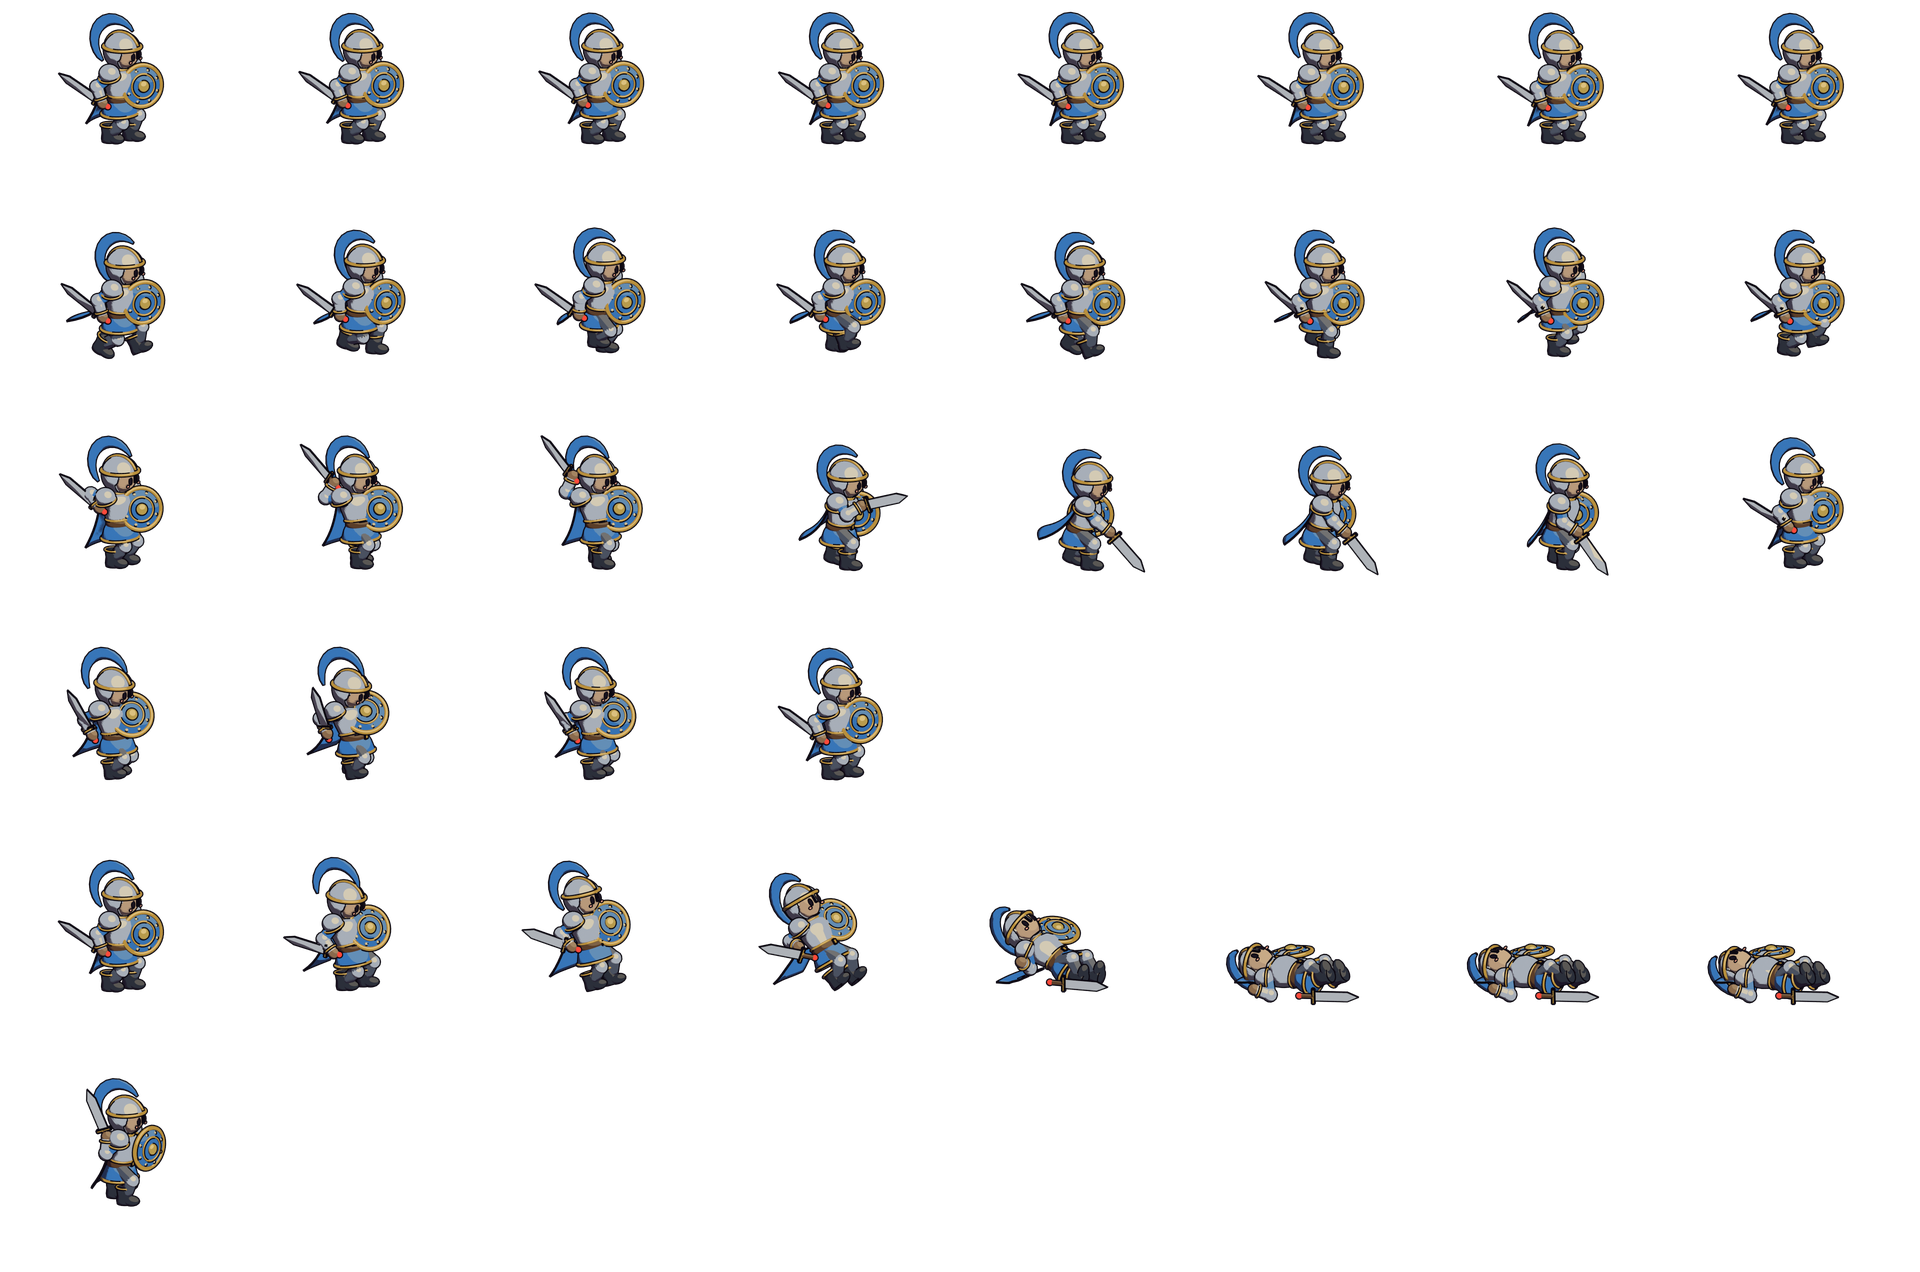
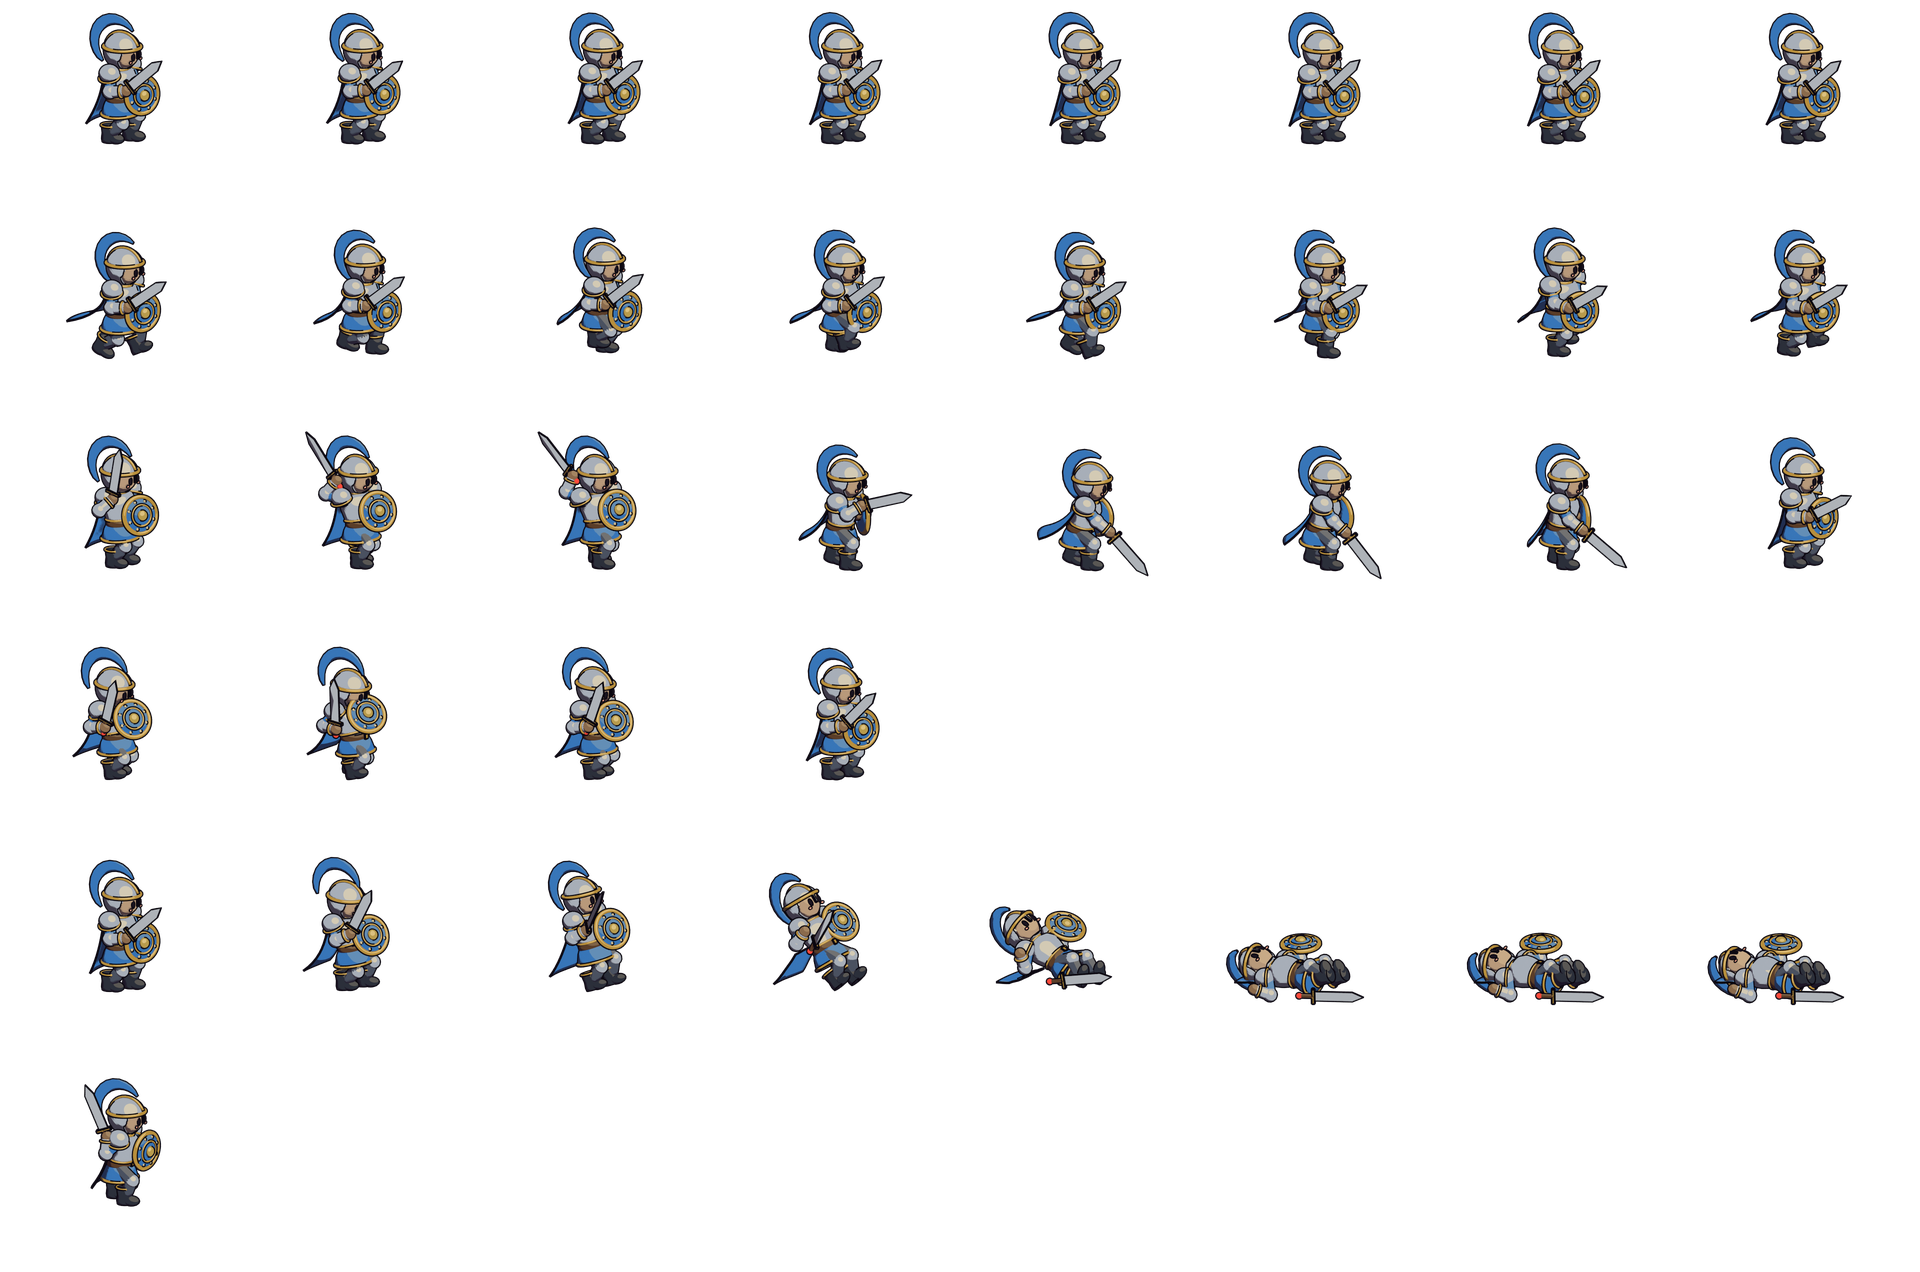
骑士 Blender 模型：剑朝前拿，盾离开身体不穿模
Claude-Session: https://claude.ai/code/session_01Uc92THDE5Qz8tvRoeGncLy

diff --git a/tools/blender/knight.py b/tools/blender/knight.py
@@ -372,8 +372,8 @@ UPPER_ARM, FOREARM = 7.2, 6.8
 THIGH, SHIN = 8.6, 8.4
 HEAD_UP = 20.6          # 头的中心在胯上面多少
 HEAD_R = 7.4
-SWORD_LENGTH = 20.0
-SHIELD_R = 8.4
+SWORD_LENGTH = 22.0
+SHIELD_R = 7.4
 CAPE_COLS, CAPE_ROWS = 8, 9
 
 
@@ -454,16 +454,16 @@ def build_knight(look):
     add_object('pommel', ellipsoid(1.35, 1.35, 1.35, 8, 14), 'sword', look['gem'], 'glow', location=(0, 0, -2.6))
 
     # ---- 盾：关节在盾心，盾面朝 +X
-    dome = [(0.0, 2.0), (2.6, 1.85), (5.4, 1.3), (7.4, 0.6), (SHIELD_R, 0.0), (SHIELD_R, -0.9), (0.0, -0.9)]
+    dome = [(0.0, 1.9), (SHIELD_R * 0.3, 1.75), (SHIELD_R * 0.64, 1.25), (SHIELD_R * 0.88, 0.6), (SHIELD_R, 0.0), (SHIELD_R, -0.9), (0.0, -0.9)]
     face_rotation = (0, math.pi / 2, 0)
     add_object('shield_face', lathe(dome, 36), 'shield', shade(player, -0.3), rotation=face_rotation)
     add_object('shield_rim', tube(ring_points(SHIELD_R, SHIELD_R, 0.0, 40), 1.0, closed=True), 'shield', trim, 'metal', rotation=face_rotation)
-    add_object('shield_ring', tube(ring_points(4.9, 4.9, 1.45, 32), 0.5, closed=True), 'shield', trim, 'metal', rotation=face_rotation)
-    add_object('shield_boss', ellipsoid(2.5, 2.5, 1.5, 8, 20), 'shield', '#ffd76a', 'metal', rotation=face_rotation, location=(1.9, 0, 0))
+    add_object('shield_ring', tube(ring_points(SHIELD_R * 0.58, SHIELD_R * 0.58, 1.4, 32), 0.5, closed=True), 'shield', trim, 'metal', rotation=face_rotation)
+    add_object('shield_boss', ellipsoid(2.3, 2.3, 1.5, 8, 20), 'shield', '#ffd76a', 'metal', rotation=face_rotation, location=(1.9, 0, 0))
     for i in range(8):                      # 盾沿的一圈铆钉
         angle = i / 8 * math.tau + math.pi / 8
         add_object(f'shield_stud_{i}', ellipsoid(0.75, 0.75, 0.6, 6, 10), 'shield', '#fff1c2', 'metal', rotation=face_rotation,
-                   location=(0.75, math.cos(angle) * 6.6, math.sin(angle) * 6.6))
+                   location=(0.75, math.cos(angle) * SHIELD_R * 0.79, math.sin(angle) * SHIELD_R * 0.79))
 
     # ---- 披风：每帧按姿势重新算顶点（见 update_cape）
     cape_mesh = bpy.data.meshes.new('cape')
@@ -517,6 +517,17 @@ def V(x, y, z):
     return Vector((x, y, z))
 
 
+def shield_at(direction, distance, shift, height):
+    """按盾面朝向算盾心的位置：盾面离身体中轴 distance 远（要大于胸甲的半径，盾才不会插进身体），
+    再沿盾面横向挪 shift（正数往远侧），height 是相对两肩的高度。返回 (盾心, 朝向)。"""
+    flat = Vector((direction.x, direction.y, 0)).normalized()
+    across = Vector((-flat.y, flat.x, 0))
+    center = flat * distance + across * shift
+    return Vector((center.x, center.y, height)), direction
+
+
+SHIELD_REST = shield_at(Vector((0.88, -0.45, 0.12)), 9.6, 4.2, -8.4)
+
 # 一帧的姿势参数。手的位置用“躯干坐标”：原点在两肩中点，X 朝前、Y 朝左（远侧）、Z 朝上。
 # 右手（近侧，离镜头近）持剑，左手（远侧）持盾；镜头从侧前方看，盾举在身前也看得见。
 REST = {
@@ -526,10 +537,10 @@ REST = {
     'lean': 0.0,                    # 上身前倾（弧度）
     'twist': 0.0,                   # 上身绕竖轴转（正数：左肩往前）
     'head': (0.0, 0.0),             # 头相对上身：(低头, 往镜头转)
-    'sword_hand': V(-2.0, -10.6, -11.0),
-    'sword_dir': V(-0.8, -0.16, 0.46),   # 剑尖指向（上身坐标）
-    'shield_pos': V(8.2, 3.2, -5.8),     # 盾心
-    'shield_dir': V(0.8, -0.58, 0.12),   # 盾面朝向
+    'sword_hand': V(8.6, -10.6, -4.6),      # 持剑的手伸在身前，剑尖指向前上方，剑身从盾的上沿探出去
+    'sword_dir': V(0.74, -0.05, 0.67),   # 剑尖指向（上身坐标）
+    'shield_pos': SHIELD_REST[0],        # 盾心
+    'shield_dir': SHIELD_REST[1],        # 盾面朝向
     'foot_L': (V(2.8, HIP_SIDE + 0.4, 0), 0.0),    # (脚底位置, 脚尖上翘的角度)；远侧脚在前，两条腿在画面上才分得开
     'foot_R': (V(-2.6, -HIP_SIDE - 0.4, 0), 0.0),
     'cape': (0.0, 0.0),             # (往后扬起的程度 0..1, 摆动的相位)
@@ -614,7 +625,7 @@ ATTACK_KEYS = [
     (0.3, 'out', pose(
         lean=-0.2, twist=-0.3, drop=0.8, head=(0.08, 0.0),
         sword_hand=V(-3.0, -8.4, 9.5), sword_dir=V(-0.62, -0.1, 0.78),
-        shield_pos=V(7.4, 4.6, -6.2),
+        shield_pos=shield_at(V(0.8, -0.2, 0.1), 9.4, 3.6, -6.0)[0], shield_dir=V(0.8, -0.2, 0.1),
         foot_L=(V(-3.4, HIP_SIDE, 0), 0.0), foot_R=(V(2.0, -HIP_SIDE, 0), 0.0),
         cape=(0.15, 1.0), plume=-0.12,
     )),
@@ -622,14 +633,14 @@ ATTACK_KEYS = [
     (0.42, 'in', pose(
         lean=0.12, twist=0.1, drop=1.4, head=(-0.05, 0.0),
         sword_hand=V(9.0, -8.2, 5.0), sword_dir=V(0.72, -0.05, 0.69),
-        shield_pos=V(4.6, 6.4, -6.8), shield_dir=V(0.5, -0.82, 0.1),
+        shield_pos=shield_at(V(0.7, 0.4, 0.1), 9.2, 2.0, -6.4)[0], shield_dir=V(0.7, 0.4, 0.1),
         foot_L=(V(-5.0, HIP_SIDE, 0), -0.25), foot_R=(V(5.2, -HIP_SIDE, 0), 0.0),
         cape=(0.5, 2.0), plume=0.3,
     )),
     (0.55, 'out', pose(
         lean=0.3, twist=0.32, drop=2.6, head=(-0.12, 0.0),
         sword_hand=V(13.2, -7.4, -6.6), sword_dir=V(0.86, -0.02, -0.5),
-        shield_pos=V(1.4, 7.6, -7.4), shield_dir=V(0.3, -0.94, 0.1),
+        shield_pos=shield_at(V(0.45, 0.88, 0.1), 9.4, 0.5, -7.0)[0], shield_dir=V(0.45, 0.88, 0.1),
         foot_L=(V(-5.6, HIP_SIDE, 0), -0.35), foot_R=(V(6.0, -HIP_SIDE, 0), 0.0),
         cape=(0.75, 3.0), plume=0.5,
     )),
@@ -637,7 +648,7 @@ ATTACK_KEYS = [
     (0.74, 'smooth', pose(
         lean=0.24, twist=0.26, drop=2.2, head=(-0.1, 0.0),
         sword_hand=V(12.2, -7.8, -8.2), sword_dir=V(0.8, -0.05, -0.6),
-        shield_pos=V(2.4, 7.2, -7.2), shield_dir=V(0.4, -0.9, 0.1),
+        shield_pos=shield_at(V(0.55, 0.8, 0.1), 9.4, 0.8, -6.8)[0], shield_dir=V(0.55, 0.8, 0.1),
         foot_L=(V(-5.2, HIP_SIDE, 0), -0.2), foot_R=(V(5.8, -HIP_SIDE, 0), 0.0),
         cape=(0.4, 4.0), plume=0.2,
     )),
@@ -653,8 +664,8 @@ HIT_KEYS = [
     (0.0, 'out', pose()),
     (0.3, 'out', pose(
         move=V(-2.4, 0, 0), lean=-0.3, twist=-0.15, drop=1.6, head=(0.22, 0.0),
-        sword_hand=V(-4.0, -11.5, -7.0), sword_dir=V(0.2, -0.3, 0.93),
-        shield_pos=V(6.6, 2.0, -2.6), shield_dir=V(0.7, -0.6, 0.38),
+        sword_hand=V(1.0, -11.8, -6.0), sword_dir=V(0.38, -0.2, 0.9),
+        shield_pos=shield_at(V(0.85, -0.4, 0.35), 9.6, 3.0, -2.8)[0], shield_dir=V(0.85, -0.4, 0.35),
         foot_L=(V(-4.2, HIP_SIDE, 0), 0.0), foot_R=(V(1.2, -HIP_SIDE, 0), 0.25),
         cape=(0.4, 1.5), plume=-0.3,
     )),
@@ -671,7 +682,7 @@ def pose_block(_k=0.0):
     return pose(
         lean=0.16, twist=0.22, drop=2.0, head=(-0.1, 0.0),
         sword_hand=V(-4.6, -9.6, 1.2), sword_dir=V(-0.5, -0.12, 0.86),
-        shield_pos=V(10.6, 0.6, -2.8), shield_dir=V(0.9, -0.42, 0.1),
+        shield_pos=shield_at(V(0.93, -0.36, 0.08), 10.6, 1.6, -3.0)[0], shield_dir=V(0.93, -0.36, 0.08),
         foot_L=(V(-4.4, HIP_SIDE, 0), 0.0), foot_R=(V(4.2, -HIP_SIDE, 0), 0.0),
         cape=(0.12, 0.5),
     )
@@ -694,8 +705,8 @@ def pose_death(k):
         # 两臂摊开
         sword_hand=blend(REST['sword_hand'], V(-2.0, -15.0, 2.0), fall),
         sword_dir=blend(REST['sword_dir'], V(0.1, -0.9, 0.4), fall),
-        shield_pos=blend(REST['shield_pos'], V(1.0, 13.5, 1.0), fall),
-        shield_dir=blend(REST['shield_dir'], V(0.95, 0.2, 0.2), fall),
+        shield_pos=blend(REST['shield_pos'], V(1.8, 20.5, 0.5), fall),
+        shield_dir=blend(REST['shield_dir'], V(1.0, 0.05, 0.0), fall),
         foot_L=(blend(REST['foot_L'][0], V(1.0, HIP_SIDE + 2.2, 0.5), fall), 0.5 * fall),
         foot_R=(blend(REST['foot_R'][0], V(3.6, -HIP_SIDE - 2.6, 3.4 * math.sin(fall * math.pi) + 0.5), fall), 0.4 * fall),
         cape=(0.3 * stagger, 1.0),
